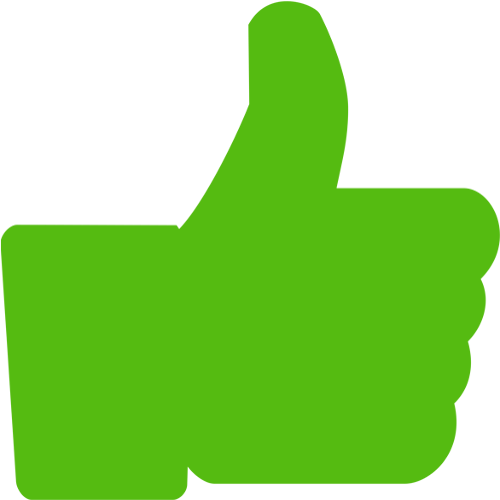
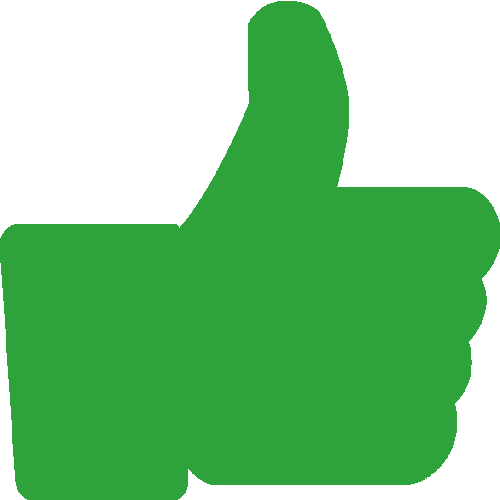
create theme based on the provided design, desktop version

diff --git a/index.html b/index.html
@@ -25,18 +25,57 @@
 		<h2>Movies</h2>
 		<div id="article-container">
 			<article>
-	        	<img src="img/poster_jumanji.jpg">
-				<div>
+				<img class="article-img" src="img/poster_jumanji.jpg">
+				<div class="article-text">
 					<h3>Jumanji (1995)</h3>
 					<p>When two kids find and play a magical board game, they release a man trapped for decades in it and a host of dangers that can only be stopped by finishing the game.</p>
 					<div class="like-box"> 
 						<button>
 							<span>Like</span>
-							<img src="img/like_green.png" width="20">
+							<img src="img/like_green.png">
 						</button> 
 					<div>8</div>
 				</div>
-      		</article>
+			</article>
+			<article>
+				<img class="article-img" src="img/poster_jumanji.jpg">
+				<div class="article-text">
+					<h3>Jumanji (1995)</h3>
+					<p>When two kids find and play a magical board game, they release a man trapped for decades in it and a host of dangers that can only be stopped by finishing the game.</p>
+					<div class="like-box"> 
+						<button>
+							<span>Like</span>
+							<img src="img/like_green.png">
+						</button> 
+					<div>8</div>
+				</div>
+			</article>
+			<article>
+				<img class="article-img" src="img/poster_jumanji.jpg">
+				<div class="article-text">
+					<h3>Jumanji (1995)</h3>
+					<p>When two kids find and play a magical board game, they release a man trapped for decades in it and a host of dangers that can only be stopped by finishing the game.</p>
+					<div class="like-box"> 
+						<button>
+							<span>Like</span>
+							<img src="img/like_green.png">
+						</button> 
+					<div>8</div>
+				</div>
+			</article>
+			<article>
+				<img class="article-img" src="img/poster_jumanji.jpg">
+				<div class="article-text">
+					<h3>Jumanji (1995)</h3>
+					<p>When two kids find and play a magical board game, they release a man trapped for decades in it and a host of dangers that can only be stopped by finishing the game.</p>
+					<div class="like-box"> 
+						<button>
+							<span>Like</span>
+							<img src="img/like_green.png">
+						</button> 
+					<div>8</div>
+				</div>
+			</article>
 		</div>
 	</main>
 

diff --git a/css/style.css b/css/style.css
@@ -48,25 +48,41 @@ main {
 #article-container {
   display: flex;
   flex-wrap: wrap;
-  width: 100%; }
+  justify-content: space-between;
+  width: 96%;
+  margin: 4vw auto; }
 
 article {
   background-color: #101010;
-  width: 40%;
-  display: flex; }
-  article h3, article p {
-    margin: 0; }
+  width: 45%;
+  height: 22.5vw;
+  display: flex;
+  align-items: space-between;
+  padding: 0.5vw 1vw;
+  margin-bottom: 6vw; }
+  article h3 {
+    margin: 0;
+    font-size: 2vw; }
+  article p {
+    margin: 0;
+    font-size: 1.5vw;
+    margin-bottom: 1vw;
+    margin-right: 0.5vw; }
   article img {
-    width: 30%; }
-  article div {
-    width: 70%; }
+    width: 35%;
+    margin-right: 0.5vw;
+    border-radius: 5px; }
+
+.article-text {
+  width: 70%;
+  display: flex;
+  flex-flow: column;
+  justify-content: space-between; }
 
 .like-box {
   display: flex;
   justify-content: flex-end;
-  align-items: center;
-  margin-right: 1vw;
-  margin-bottom: 1vw; }
+  align-items: center; }
   .like-box button {
     background: none;
     border: none; }
@@ -75,7 +91,7 @@ article {
     font-size: 3vw;
     color: #2fa33b; }
   .like-box img {
-    height: 3vw;
+    width: 3vw;
     margin-right: 0.5vw; }
   .like-box div {
     width: 7.5vw;

diff --git a/css/style.sass b/css/style.sass
@@ -53,25 +53,41 @@ main
 #article-container
 	display: flex
 	flex-wrap: wrap
-	width: 100%
+	justify-content: space-between
+	width: 96%
+	margin: 4vw auto
 
 article
 	background-color: #101010
-	width: 40%
+	width: 45%
+	height: 22.5vw
 	display: flex
-	h3, p
+	align-items: space-between
+	padding: 0.5vw 1vw
+	margin-bottom: 6vw
+	h3
 		margin: 0
+		font-size: 2vw
+	p
+		margin: 0
+		font-size: 1.5vw
+		margin-bottom: 1vw
+		margin-right: .5vw
 	img
-		width: 30%
-	div
-		width: 70%	
+		width: 35%
+		margin-right: .5vw
+		border-radius: 5px
+
+.article-text
+		width: 70%
+		display: flex
+		flex-flow: column
+		justify-content: space-between
 
 .like-box
 	display: flex
 	justify-content: flex-end
 	align-items: center
-	margin-right: 1vw
-	margin-bottom: 1vw
 	button
 		background: none
 		border: none
@@ -80,7 +96,7 @@ article
 		font-size: 3vw
 		color: #2fa33b
 	img
-		height: 3vw
+		width: 3vw
 		margin-right: 0.5vw
 	div
 		width: 7.5vw
